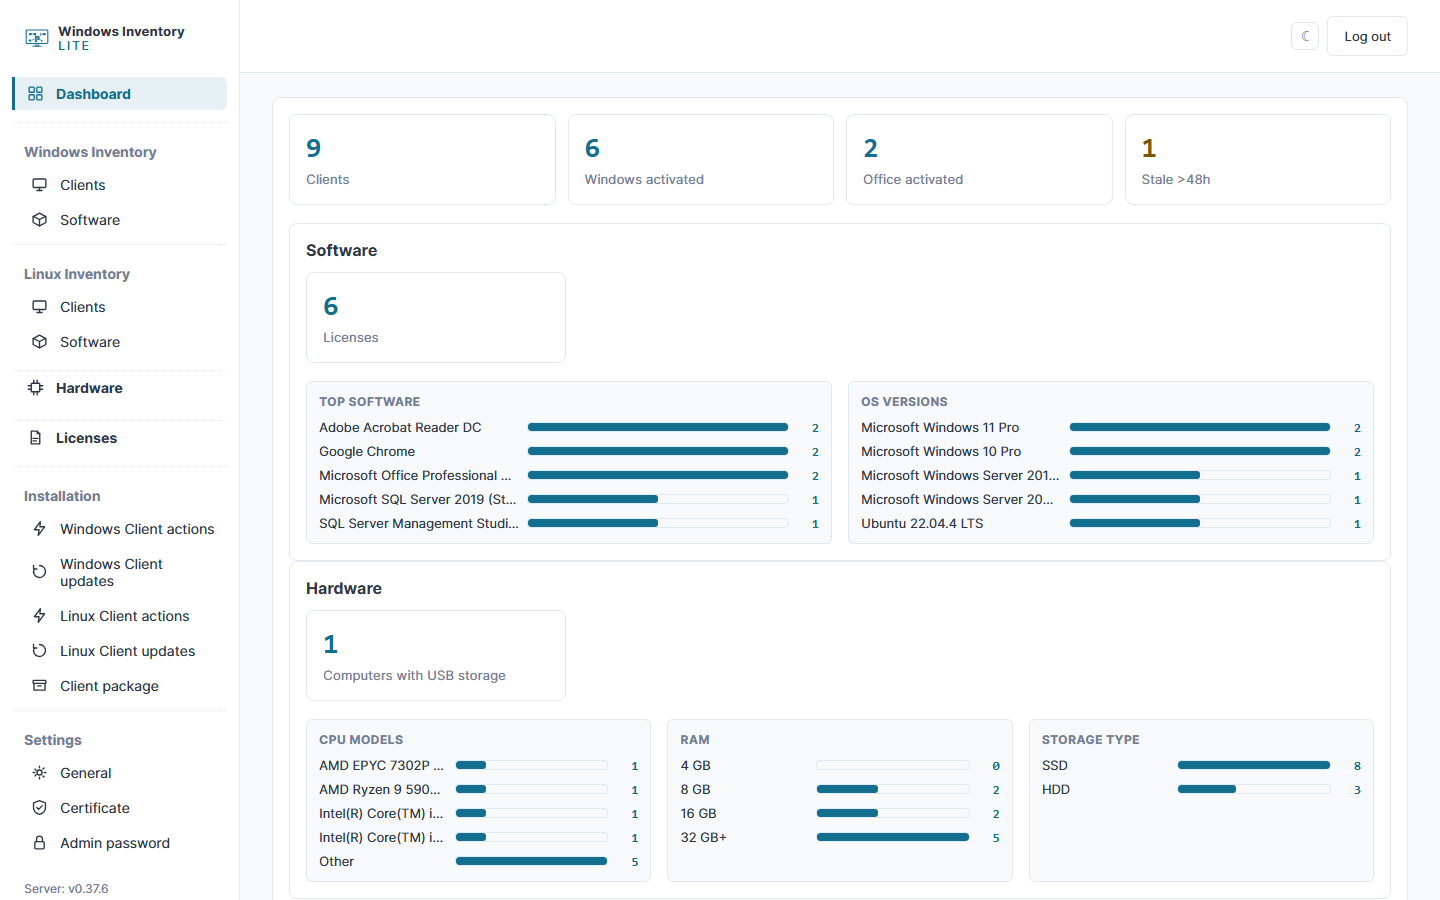
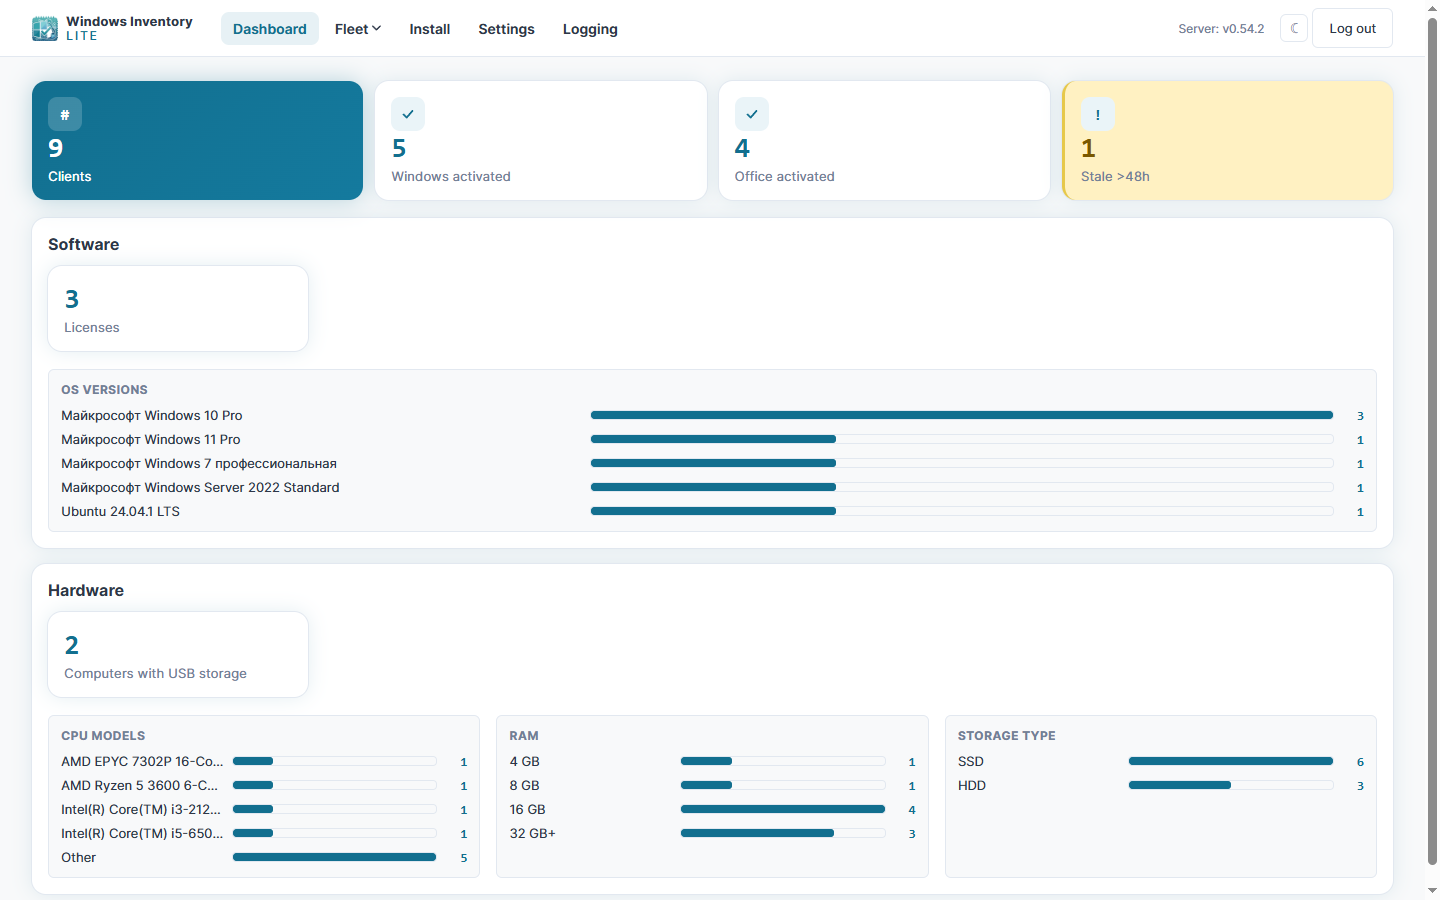
docs(readme): refresh nav description and screenshots for the redesign
README.md/README_RU.md's "Using the dashboard" section and one "What
it does" bullet still described the pre-redesign vertical sidebar and
separate Windows/Linux Clients tables - stale since the 0.40.0 dashboard
redesign and every Deploy Actions/Updates unification phase since.
Rewrote both to describe the current top nav (Dashboard / Fleet
dropdown / Install / Settings / Logging), the merged cross-platform
Clients/Hardware tables, and session-based login.

Re-took every screenshot from a scratch instance seeded with fictional
data (docs/screenshots/MANIFEST.md documents the exact setup and two
capture gotchas hit along the way: Cyrillic text needs a real HTTP
client, not a shell-embedded curl command, to survive encoding intact,
and a fresh headless Chromium can render correct UTF-8 as tofu on the
very first paint after navigation). windows-clients.png/linux-clients.png
are replaced by one clients.png, matching the now-merged table.

diff --git a/README.md b/README.md
@@ -17,7 +17,7 @@ The Windows client and server are small self-contained C# services on .NET Frame
 ## What it does
 
 - Collects OS version, hardware (CPU, RAM, storage, USB detection), installed software, and Windows/Office activation status from every reporting machine, Windows or Linux.
-- One dashboard shows both fleets side by side: separate Clients/Software tables per platform, plus a combined Hardware view and combined summary tiles across both.
+- One dashboard shows both fleets together: a merged Clients table (with an All/Windows/Linux filter), a combined Hardware view, and shared summary tiles - plus a Software table and a Linux-only Services table.
 - Installs, updates, or uninstalls the Windows client over WinRM, or the Linux client over SSH (key or password), straight from the dashboard - no need to touch each machine by hand.
 - Optional GPO deployment for Windows fleets that prefer a computer startup script over a WinRM push.
 - A manually maintained software license catalog, linked to the computers that use each license.
@@ -63,7 +63,7 @@ Full parameters for every script, every `server-config.json` key, GPO deployment
 
 ## Using the dashboard
 
-The sidebar is a tree with five sections: **Dashboard** (the landing page - summary tiles and top-software/hardware charts across both fleets), **Windows Inventory** and **Linux Inventory** (each with Clients and Software tables), a single **Hardware** view merging both platforms into one, **Licenses**, **Installation** (Client actions/updates for Windows, the same pair for Linux, and package configuration for both), and **Settings** (general options, HTTPS certificate management, admin password).
+The dashboard is a single-page app with a horizontal top bar: **Dashboard** (summary tiles and OS/hardware breakdown charts across both fleets), **Fleet** (a dropdown for Clients, Software, Services, Hardware, and Licenses - Clients and Hardware merge both platforms behind an All/Windows/Linux filter), **Install** (Actions, Updates, and Package tabs - install or uninstall over WinRM/SSH with an Auto-detect mode, push outdated clients, or download a self-contained install package), **Settings** (Server, Windows, Linux, Certificate, and Admin password), and **Logging** (a log of rejected ingestion-token attempts). Signing in uses a small dedicated login page and a real server-side session, not the browser's native Basic Auth prompt - Basic Auth (`curl -u user:pass`) still works unchanged for scripts and automation.
 
 The dashboard polls every 30 seconds and updates in place - sort order, search, and expanded rows are preserved. Every table supports column sorting, a search filter, and CSV export (semicolon-delimited, UTF-8 BOM, for direct opening in Excel). Click a computer, software title, or hardware group to expand its detail row.
 
@@ -73,9 +73,7 @@ Captured from a scratch instance seeded with fictional test data - no real hosts
 
 ![Dashboard overview](./docs/screenshots/dashboard-overview.png)
 
-![Windows Clients](./docs/screenshots/windows-clients.png)
-
-![Linux Clients](./docs/screenshots/linux-clients.png)
+![Clients](./docs/screenshots/clients.png)
 
 ![Combined Hardware view](./docs/screenshots/hardware-view.png)
 

diff --git a/docs/screenshots/MANIFEST.md b/docs/screenshots/MANIFEST.md
@@ -1,9 +1,10 @@
 # Screenshot manifest
 
-Captured from a scratch server instance (Chromium, 1440x900 viewport, headless Playwright) seeded with fictional test data — no real hosts, credentials, or license keys.
+Captured from a scratch server instance (Chromium, 1440x900 viewport, headless Playwright) seeded with fictional test data - no real hosts, credentials, or license keys. Domain `CONTOSO`, hostnames like `PC-ACCT-01`/`SRV-FILE-01`.
 
-- `dashboard-overview.png` — Dashboard landing view: summary tiles (clients, activation counts, stale count, license count, USB storage), top-software/OS-version charts, and cross-platform CPU/RAM/storage breakdowns.
-- `windows-clients.png` — Windows Clients table: six machines spanning Server 2019/2022 and Windows 10/11, with a USB badge and a STALE badge visible.
-- `linux-clients.png` — Linux Clients table: three hosts on Ubuntu 22.04, Debian 12, and Rocky Linux 9.
-- `hardware-view.png` — Combined Hardware view: CPU model and storage tables merging Windows and Linux fleet data into one inventory.
-- `licenses.png` — Licenses view: six license records mixing assigned and unassigned seats.
+- `dashboard-overview.png` - Dashboard landing view: summary tiles (clients, activation counts, stale count), the Software card (license count, OS-version breakdown), and the Hardware card (USB storage count, CPU/RAM/storage breakdowns) across both fleets.
+- `clients.png` - The merged Clients table (Fleet > Clients): five Windows machines spanning Windows 7/10/11 and Server 2022 plus a Linux host, with the All/Windows/Linux filter, a USB badge, and a STALE badge all visible, and page 1 of 2.
+- `hardware-view.png` - Combined Hardware view (Fleet > Hardware): CPU model and storage tables merging Windows and Linux fleet data into one inventory, same All/Windows/Linux filter as Clients.
+- `licenses.png` - Licenses view (Fleet > Licenses): three license records with Cyrillic product names, each assigned to one computer.
+
+Regenerating these: start the server against a scratch `--data`/`--linux-data` pair (NOT the default `%ProgramData%\WindowsInventoryLite\...` paths, which are shared across every local run of this app), POST synthetic Windows/Linux inventory reports and license records, then capture with Playwright's `browser_take_screenshot` (`browser_navigate` to a `page.goto` for each view, `browser_wait_for` ~1s before capturing - a fresh headless Chromium can render Cyrillic as tofu/replacement glyphs on the very first paint after navigation despite the underlying data and DOM text already being correct UTF-8). Licenses specifically: POST bodies with non-ASCII text via a real HTTP client (e.g. Node's `http` module with `JSON.stringify`) - piping Cyrillic through a shell command line (`curl -d '...'` in Git Bash) can mangle the encoding before it ever reaches the server. `licenses.json` is also ACL-restricted to Administrators+SYSTEM after every write (by design, since it holds plaintext license keys); a non-elevated session needs `icacls <path> /grant "<user>:(F)"` before each subsequent read/write if not running as admin.
